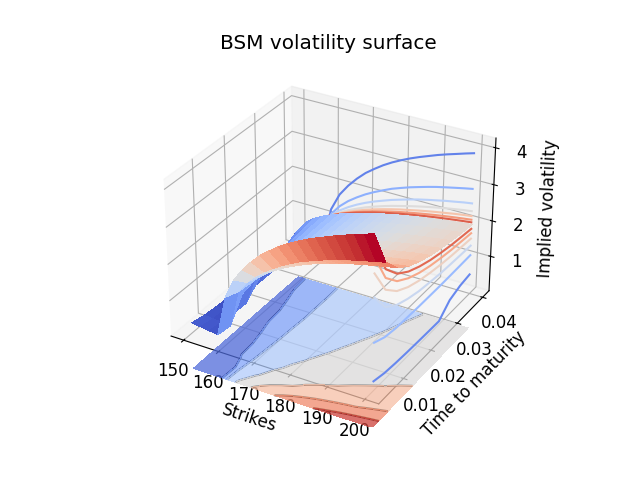
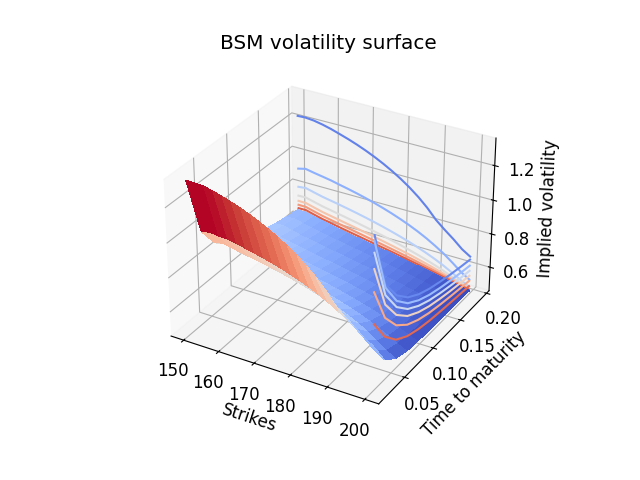
generated implied vol surface for artificial call option prices

Changed region(s): [[0.2812, 0.1875, 0.8438, 0.9062], [0.7812, 0.3125, 0.8438, 0.4375]]

diff --git a/volatility.cpp b/volatility.cpp
@@ -148,20 +148,37 @@ namespace Volatility
 				"European call price"sv
 			);
 
-			//priceSurface.m_table =
-			//{ { {25.10,	23.15,	21.25,	19.40,	17.60,	15.85,	14.15,	12.50,	10.90,	9.35,	7.85,	6.40,	5.00,	3.65,	2.35,	1.10,	0.80,	0.65,	0.55,	0.45,	0.35},
-			//	{26.00,	24.10,	22.25,	20.45,	18.70,	17.00,	15.35,	13.75,	12.20,	10.70,	9.25,	7.85,	6.50,	5.20,	3.95,	2.75,	1.60,	1.20,	1.00,	0.85,	0.70},
-			//	{26.90,	25.05,	23.25,	21.50,	19.80,	18.15,	16.55,	15.00,	13.50,	12.05,	10.65,	9.30,	8.00,	6.75,	5.55,	4.40,	3.30,	2.30,	1.80,	1.50,	1.25},
-			//	{27.75,	25.95,	24.20,	22.50,	20.85,	19.25,	17.70,	16.20,	14.75,	13.35,	12.00,	10.70,	9.45,	8.25,	7.10,	6.00,	4.95,	3.95,	3.35,	2.80,	2.35},
-			//	{28.55,	26.80,	25.10,	23.40,	21.80,	20.25,	18.75,	17.30,	15.90,	14.55,	13.25,	12.00,	10.80,	9.65,	8.55,	7.50,	6.50,	5.55,	4.85,	4.25,	3.75},
-			//	{29.30,	27.60,	25.90,	24.25,	22.70,	21.20,	19.75,	18.35,	17.00,	15.70,	14.45,	13.25,	12.10,	11.00,	9.95,	8.95,	8.00,	7.10,	6.40,	5.75,	5.15},
-			//	{30.00,	28.35,	26.65,	25.05,	23.55,	22.10,	20.70,	19.35,	18.05,	16.80,	15.60,	14.45,	13.35,	12.30,	11.30,	10.35,	9.45,	8.60,	7.90,	7.25,	6.65},
-			//	{30.65,	29.05,	27.35,	25.75,	24.30,	22.90,	21.55,	20.25,	19.00,	17.80,	16.65,	15.55,	14.50,	13.50,	12.55,	11.65,	10.80,	10.00,	9.30,	8.65,	8.05},
-			//	{31.25,	29.70,	28.00,	26.40,	25.00,	23.60,	22.30,	21.05,	19.85,	18.70,	17.60,	16.55,	15.55,	14.60,	13.70,	12.85,	12.05,	11.30,	10.60,	9.95,	9.35},
-			//	{31.80,	30.30,	28.60,	27.00,	25.65,	24.30,	23.00,	21.80,	20.65,	19.55,	18.50,	17.50,	16.55,	15.65,	14.80,	14.00,	13.25,	12.55,	11.90,	11.30,	10.75}
-			//
-			//} };
+			/*
+			priceSurface.m_table =
+			{ { {25.40,	22.85,	20.25,	18.40,	16.60,	14.85,	13.15,	11.50,	9.90,	8.35,	6.85,	5.40,	4.00,	2.65,	1.35,	1.10,	0.80,	0.65,	0.55,	0.45,	0.35},
+				{26.00,	24.10,	22.25,	20.45,	18.70,	17.00,	15.35,	13.75,	12.20,	10.70,	9.25,	7.85,	6.50,	5.20,	3.95,	2.75,	1.60,	1.20,	1.00,	0.85,	0.70},
+				{26.90,	25.05,	23.25,	21.50,	19.80,	18.15,	16.55,	15.00,	13.50,	12.05,	10.65,	9.30,	8.00,	6.75,	5.55,	4.40,	3.30,	2.30,	1.80,	1.50,	1.25},
+				{27.75,	25.95,	24.20,	22.50,	20.85,	19.25,	17.70,	16.20,	14.75,	13.35,	12.00,	10.70,	9.45,	8.25,	7.10,	6.00,	4.95,	3.95,	3.35,	2.80,	2.35},
+				{28.55,	26.80,	25.10,	23.40,	21.80,	20.25,	18.75,	17.30,	15.90,	14.55,	13.25,	12.00,	10.80,	9.65,	8.55,	7.50,	6.50,	5.55,	4.85,	4.25,	3.75},
+				{29.30,	27.60,	25.90,	24.25,	22.70,	21.20,	19.75,	18.35,	17.00,	15.70,	14.45,	13.25,	12.10,	11.00,	9.95,	8.95,	8.00,	7.10,	6.40,	5.75,	5.15},
+				{30.00,	28.35,	26.65,	25.05,	23.55,	22.10,	20.70,	19.35,	18.05,	16.80,	15.60,	14.45,	13.35,	12.30,	11.30,	10.35,	9.45,	8.60,	7.90,	7.25,	6.65},
+				{30.65,	29.05,	27.35,	25.75,	24.30,	22.90,	21.55,	20.25,	19.00,	17.80,	16.65,	15.55,	14.50,	13.50,	12.55,	11.65,	10.80,	10.00,	9.30,	8.65,	8.05},
+				{31.25,	29.70,	28.00,	26.40,	25.00,	23.60,	22.30,	21.05,	19.85,	18.70,	17.60,	16.55,	15.55,	14.60,	13.70,	12.85,	12.05,	11.30,	10.60,	9.95,	9.35},
+				{31.80,	30.30,	28.60,	27.00,	25.65,	24.30,	23.00,	21.80,	20.65,	19.55,	18.50,	17.50,	16.55,	15.65,	14.80,	14.00,	13.25,	12.55,	11.90,	11.30,	10.75}
+			
+			} };
+			*/
 
+			priceSurface.m_table =
+			{ {
+			{ 28.50, 26.60, 24.75, 22.90, 21.10, 19.35, 17.65, 16.00, 14.40, 12.85, 11.35, 9.90, 8.50, 7.15, 5.85, 4.60, 3.40, 2.50, 1.80, 1.20, 0.80 },
+			{ 29.00, 27.25, 25.40, 23.65, 21.90, 20.15, 18.50, 16.90, 15.35, 13.85, 12.40, 11.00, 9.65, 8.35, 7.10, 5.90, 4.75, 3.70, 2.70, 1.85, 1.25 },
+			{ 29.75, 28.10, 26.20, 24.35, 22.60, 20.90, 19.25, 17.65, 16.10, 14.60, 13.15, 11.75, 10.40, 9.10, 7.85, 6.65, 5.50, 4.40, 3.35, 2.40, 1.70 },
+			{ 30.50, 28.80, 26.90, 25.05, 23.30, 21.60, 19.95, 18.35, 16.80, 15.30, 13.85, 12.45, 11.10, 9.80, 8.55, 7.35, 6.20, 5.10, 4.05, 3.10, 2.30 },
+			{ 31.25, 29.55, 27.65, 25.80, 24.05, 22.35, 20.70, 19.10, 17.55, 16.05, 14.60, 13.20, 11.85, 10.55, 9.30, 8.10, 6.95, 5.85, 4.80, 3.85, 3.00 },
+			{ 32.00, 30.30, 28.40, 26.55, 24.80, 23.10, 21.45, 19.85, 18.30, 16.80, 15.35, 13.95, 12.60, 11.30, 10.05, 8.85, 7.70, 6.60, 5.55, 4.60, 3.75 },
+			{ 32.75, 31.05, 29.15, 27.30, 25.55, 23.85, 22.20, 20.60, 19.05, 17.55, 16.10, 14.70, 13.35, 12.05, 10.80, 9.60, 8.45, 7.35, 6.30, 5.35, 4.50 },
+			{ 33.40, 31.75, 29.85, 28.00, 26.25, 24.55, 22.90, 21.30, 19.75, 18.25, 16.80, 15.40, 14.05, 12.75, 11.50, 10.30, 9.15, 8.05, 7.00, 6.05, 5.20 },
+			{ 34.00, 32.40, 30.50, 28.65, 26.90, 25.20, 23.55, 21.95, 20.40, 18.90, 17.45, 16.05, 14.70, 13.40, 12.15, 10.95, 9.80, 8.70, 7.65, 6.70, 5.85 },
+			{ 34.60, 33.00, 31.10, 29.25, 27.50, 25.80, 24.15, 22.55, 21.00, 19.50, 18.05, 16.65, 15.30, 14.00, 12.75, 11.55, 10.40, 9.30, 8.25, 7.30, 6.45 }
+			} };	
+
+			/*
 			priceSurface.m_table = {
 				{
 					{ 17.00, 16.85, 16.60, 16.30, 16.05, 15.75, 15.35, 15.00, 14.65, 14.20, 13.80, 13.35, 12.90, 12.45, 12.00, 11.55, 11.15, 10.75, 10.35, 10.00, 9.65 },  // 1 week
@@ -176,8 +193,8 @@ namespace Volatility
 					{ 25.00, 24.70, 24.50, 24.20, 23.90, 23.60, 23.30, 23.00, 22.70, 22.40, 22.05, 21.70, 21.35, 21.00, 20.65, 20.30, 19.95, 19.60, 19.25, 18.90, 18.55 }   // 10 weeks
 				}
 			};
+			*/
 
-			Saving::write_labeledTable_to_csv("Data/ArtificalPriceSurface.csv", priceSurface);
 
 			/*
 			priceSurface.m_table = {
@@ -211,13 +228,16 @@ namespace Volatility
 									167.5, 170, 172.5, 175, 177.5, 180, 182.5,
 									185, 187.5, 190, 192.5, 195, 197.5, 200
 									};
-			priceSurface.m_rowVals = { 1.0 / 250.,2.0 / 250. ,3.0 / 250. ,4.0 / 250. ,5.0 / 250. ,
-										6.0 / 250. ,7.0 / 250. ,8.0 / 250. ,9.0 / 250., 10.0 / 250. };
+			priceSurface.m_rowVals = { 1.0 / 52.,2.0 / 52. ,3.0 / 52. ,4.0 / 52. ,5.0 / 52. ,
+										6.0 / 52. ,7.0 / 52. ,8.0 / 52. ,9.0 / 52., 10.0 / 52. };
 
+			Saving::write_labeledTable_to_csv("Data/ArtificialPriceSurface.csv", priceSurface);
+			
+			
 			const double dividendYield = 0.007;
 			const double spot{ 175.0 };
 			const double riskFreeReturn{ 0.045 };
-			LabeledTable volSurface{ bsm(priceSurface, riskFreeReturn, spot, dividendYield, "call", "bruteForce")};
+			LabeledTable volSurface{ bsm(priceSurface, riskFreeReturn, spot, dividendYield, "call", "adam")};
 
 			return volSurface;
 		

diff --git a/plotting.py b/plotting.py
@@ -102,6 +102,6 @@ def plotOptionCSV(filenames):
 if __name__ == "__main__":
     # plotStockCSV(["Data/stockPath1.csv","Data/stockPath2.csv","Data/stockPath3.csv"])
     # plotOptionCSV(["Data/callPrices.csv","Data/callDeltas.csv","Data/callGammas.csv"])
-    # plotSurface("Data/PriceSurfacePut.csv",name)
-    plotSurface("Data/ArtificalVolSurface.csv","volSurfacePlot")
+    plotSurface("Data/ArtificialPriceSurface.csv","priceSurfacePlot")
+    #plotSurface("Data/ArtificalVolSurface.csv","volSurfacePlot")
 
